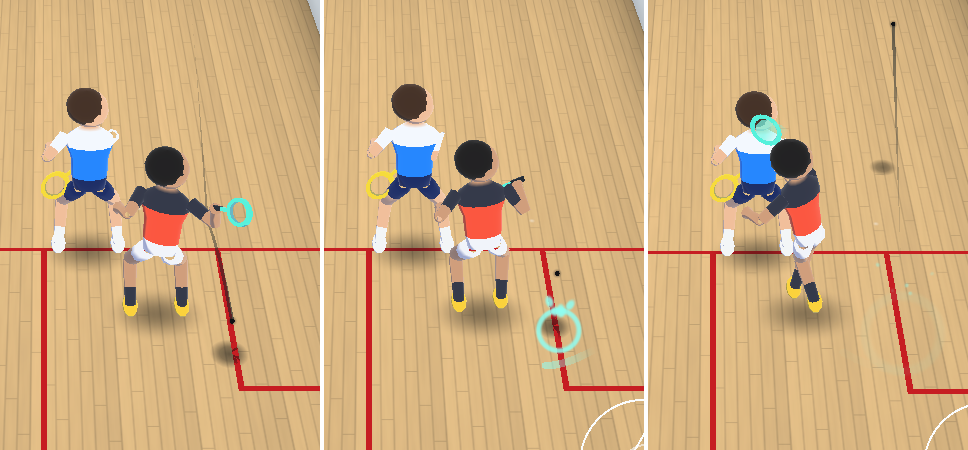
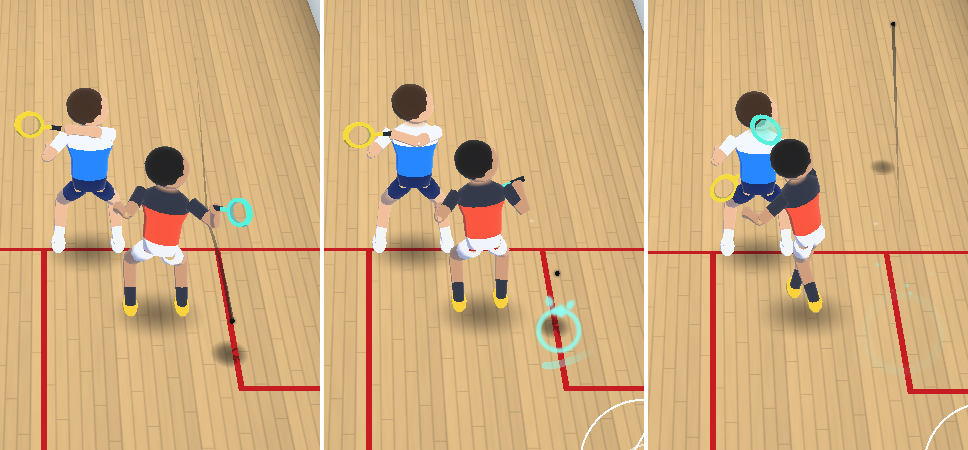
docs: backhand pose iteration 2 report and captures

diff --git a/docs/reviews/2026-11-18-backhand-pose.md b/docs/reviews/2026-11-18-backhand-pose.md
@@ -18,18 +18,20 @@ Medición con `ZBackhandDiagnosis` (fixture de captura, no regresión): Demo see
 
 La pelota está a ±0,6 m del cuerpo en todos los golpes (el punto de contacto ideal), a su derecha en Drive y a su izquierda en Revés. Conclusión: se elige revés con frecuencia; el problema es visual. La capa de elección no se toca. Con la cámara trasera la figura mide unos 100 px de alto en el teléfono y el brazo que cruza queda oculto por el torso; el giro de hombros era de solo 48–53°, el brazo libre apenas se movía y la preparación ponía la raqueta cerca del hombro contrario.
 
-## Cambios (solo `CharacterView.cs`, dibujo)
+## Cambios (iteración 2, 19 nov, tras ver que la 1 apenas se distinguía)
 
-- Giro de hombros del revés: contacto 62+10·potencia° (antes 48+8·p), preparación 46–70° (antes 30–48°). La derecha no cambia.
-- Preparación: raqueta atrás y alta del lado no dominante; codo guía por delante del pecho; brazo libre recogido al pecho durante la preparación y abierto hacia atrás a lo largo de la línea de hombros al pasar la raqueta (en espacio del torso, sigue el giro).
-- Terminación más alta y extendida (y 1,40+0,40·p).
-- La mano zurda queda espejada por construcción (todo usa `sign` y `s`).
+Alcance ampliado por el product lead: geometría del arco del revés en SwingView e inclinación del torso. Todo acotado al revés (el lado cuyo brazo cruza el cuerpo, que para el zurdo es el contacto a su derecha); la derecha no cambia.
 
-No se tocan SwingView, Core, planificación, gesto, timing, contrato, física ni `DefaultPreset.json`. La cabeza de la raqueta sigue la clave Contact de SwingView igual que en E1; solo cambian torso, codo, brazo libre y la fase posterior al contacto.
+- `SwingView`: preparación (Back) con la cabeza a 1,68 m, sobre el hombro, del lado del contacto y fuera de la silueta del torso; terminación (Follow) alta (1,56 m) y cruzada al lado del brazo que golpea. Mientras espera un revés (plan de contacto de revés), la raqueta ya está armada en alto (visual: nada lo lee). Sin tocar tiempos de claves ni la posición/tiempo de Contact.
+- `CharacterView`: preparación y terminación del figurín (rival y zurdo) con las mismas formas; el remate cruza de izquierda a derecha y acaba alto a la derecha de la cabeza; torso inclinado 9° hacia el lado del contacto; giro de hombros 62–72° al contacto; brazo libre recogido y luego abierto atrás; codo guía.
+- Continuidad E1: la primera versión del remate más alto rompía la salida (exitExcess 11,8 mm frente a 5 mm en 33 ms); se acortó la distancia contacto-remate de SwingView hasta cumplirla. Criterios sin cambios; `ZE1ContactWindowTests` verde.
+- **Cambio de una expectativa de E1 pedido por el product lead:** `ZE1StrokePoseTests` antes exigía que el revés del rival abriera hacia el lado del contacto (x>0,20); ahora exige que acabe del lado del brazo que golpea (x<-0,25). Es la inversión explícita de lo solicitado.
+
+Limitación: cuando aceptación y entrega ocurren en el mismo cuadro, la clave Back nunca se muestra; la preparación visible es la raqueta ya armada en espera, más el arco hasta Contact.
 
 ## Capturas (antes / después)
 
-Tiras de tres cuadros: preparación, contacto, remate (644→968 px). Método de E1 con la fixture `ZBackhandPoseCapture` (seed 9, Medium, cámara sin cambios).
+Tiras de tres cuadros: preparación, contacto, remate (968 px de ancho, tres cuadros de 320). Método de E1 con la fixture `ZBackhandPoseCapture` (seed 9, Medium, cámara sin cambios).
 
 | | Antes | Después |
 |---|---|---|
@@ -44,7 +46,7 @@ Pantallas completas `*-phone.png` en las mismas carpetas. Capturas de editor, no
 
 ## Pruebas
 
-`ZBackhandPoseTests` (PlayMode, dibujo): RED por aserción antes de implementar (3 de 4 fallaron: giro 52,7° frente a ≥62°, brazo libre 0,0 frente a ≥0,15 m detrás de la cadera, espejo zurdo 52,7°); un control (el codo guía) ya pasaba. GREEN 4/4. Compuertas finales: ver mensaje de entrega. AutoQA exento: sin cambios en SwingView, Core, gesto, timing ni contrato.
+`ZBackhandPoseTests` y `ZBackhandSwingViewTests` (PlayMode, dibujo). Iteración 1: RED 3 de 4 (giro 52,7°, brazo libre 0,0). Iteración 2: RED por aserción en 8 casos (cabeza de preparación 1,50 m y 1,40 m frente a ≥1,60; remate x=+0,58 y 1,40 m frente a lado del brazo y ≥1,5; raqueta en espera 0,65 m); preparación alta fuera del torso, terminación alta del lado dominante, espejo zurdo, rival, y raqueta armada en espera; GREEN todos. Compuertas finales: ver mensaje de entrega. AutoQA exento: sin cambios en SwingView, Core, gesto, timing ni contrato.
 
 ## Dudas
 
